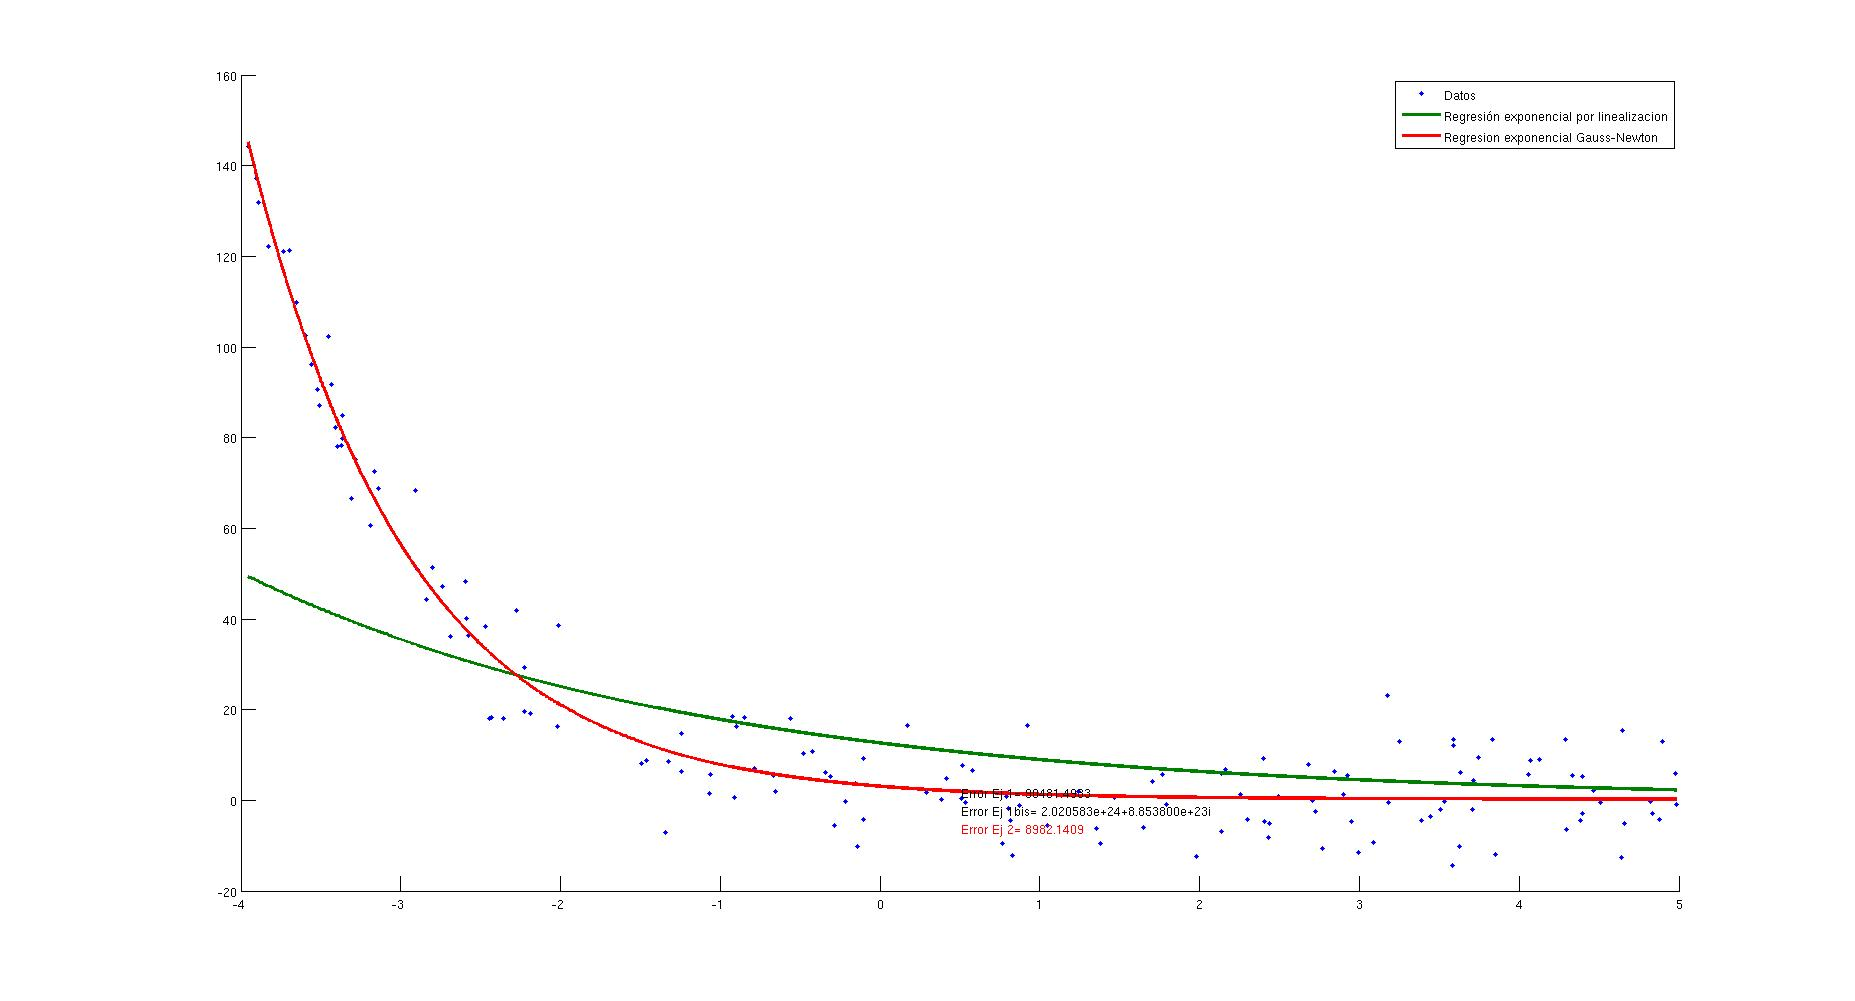
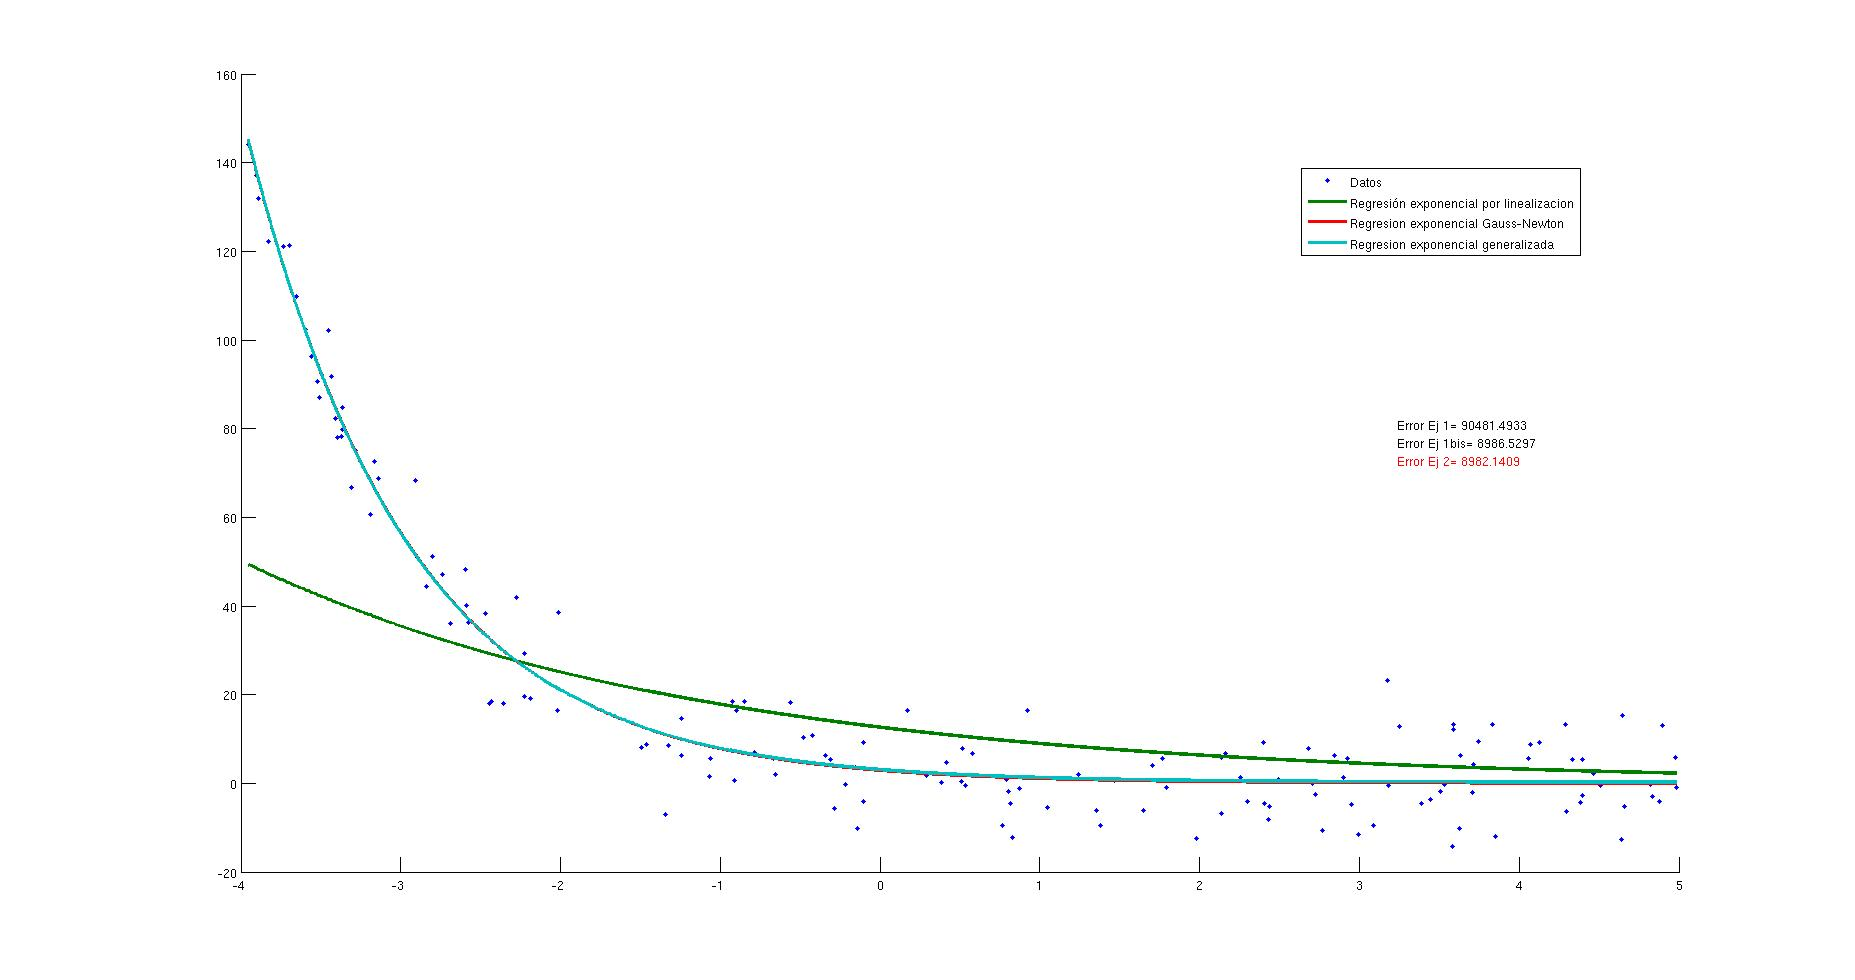
Se crea ej 1bis lindo y se pone en otro archivo el feo

diff --git a/main.m b/main.m
@@ -2,8 +2,8 @@
 clear all, close all
 
 %Ingreso y procesamiento inicial de datos
-load('datosHospital.mat')
-datosInp = M; %Ingresar datos de entrada. Primer columna variable independiente.
+load('datosTP1-2017.mat')
+datosInp = datos1; %Ingresar datos de entrada. Primer columna variable independiente.
 X = datosInp(:,1);
 Y = datosInp(:,2);
 
@@ -46,12 +46,12 @@ k = exp(logSol(2))*signo;
 er = sum((Y - k*a.^X).^2); %Miro la suma de los cuadrados de las desviaciones.
 
 
-%% %% Ejercicio 1bis: Utilizando Gauss-Newton para f(x) = k*a^x 
+%% %% Ejercicio 1bis: Utilizando Gauss-Newton para f(x) = k*e^bx 
 %% Esta es la funcion que mide el error
-d = @(tita) Y-tita(2).*tita(1).^X;
+d = @(tita) Y-tita(2).*exp(tita(1).*X);
 
 %% Gauss - Newton
-tita0_ej1b = [a k]; %Comienzo con los valores iniciales arrojados por la estimacion anterior
+tita0_ej1b = [log(a) k]; %Comienzo con los valores iniciales arrojados por la estimacion anterior
 tita_ej1b = tita0_ej1b;
 iterador = 0;
 err1 = sum(d(tita_ej1b).^2); %Yo quiero minimizar la suma de los cuadrados de las desviaciones
@@ -60,7 +60,7 @@ err = err1+1; %artilugio para entrar al ciclo
 while iterador<1000 && norm(err-err1)>0.001 %Notar que el ciclo termina porque hay una cantidad maxima de iteraciones
     % Gauss-Newton propiamente dicho
     err = err1;
-    J = [-tita_ej1b(2)*log(tita_ej1b(1))*tita_ej1b(1).^X, -tita_ej1b(1).^X]; %tita = [a,k]
+    J = [-tita_ej1b(2).*X.*exp(tita_ej1b(1).*X), -exp(tita_ej1b(1).*X)]; %tita = [a,k]
     % Matriz jacobiana cuya expresion resulta del calculo analitico.
     [q r] = qr(J);
     qy = q'*(-d(tita_ej1b));
@@ -69,6 +69,7 @@ while iterador<1000 && norm(err-err1)>0.001 %Notar que el ciclo termina porque h
     iterador = iterador + 1;
     err1 = sum(d(tita_ej1b).^2);
 end
+
 
 %% %% Ejercicio 2
 d = @(tita) Y-tita(2).*exp(tita(1).*X)-tita(3);
@@ -104,7 +105,8 @@ x1 = min(X):0.002:max(X);
 y1 = k.*a.^x1; %Estimacion ejercicio 1
 plot(x1,y1,'Linewidth',3)
 %y1bis = tita_ej1b(2).*tita_ej1b(1).^x1; %Estimacion ejercicio 1 bis
-%plot(x1,y1bis,'Linewidth',3)
+y1bis = tita_ej1b(2).*exp(tita_ej1b(1).*x1);
+plot(x1,y1bis,'Linewidth',3)
 y2 = tita_ej2(2).*exp(tita_ej2(1).*x1)+tita_ej2(3); %Estimacion ejercicio 2
 plot(x1,y2,'Linewidth',3)
 legend('Datos', 'Regresión exponencial por linealizacion', 'Regresion exponencial Gauss-Newton','Regresion exponencial generalizada')

diff --git a/ej1bisfeo.m b/ej1bisfeo.m
@@ -1,0 +1,23 @@
+%% %% Ejercicio 1bis: Utilizando Gauss-Newton para f(x) = k*a^x 
+%% Esta es la funcion que mide el error
+d = @(tita) Y-tita(2).*tita(1).^X;
+
+%% Gauss - Newton
+tita0_ej1b = [a k]; %Comienzo con los valores iniciales arrojados por la estimacion anterior
+tita_ej1b = tita0_ej1b;
+iterador = 0;
+err1 = sum(d(tita_ej1b).^2); %Yo quiero minimizar la suma de los cuadrados de las desviaciones
+err = err1+1; %artilugio para entrar al ciclo
+
+while iterador<1000 && norm(err-err1)>0.001 %Notar que el ciclo termina porque hay una cantidad maxima de iteraciones
+    % Gauss-Newton propiamente dicho
+    err = err1;
+    J = [-tita_ej1b(2)*log(tita_ej1b(1))*tita_ej1b(1).^X, -tita_ej1b(1).^X]; %tita = [a,k]
+    % Matriz jacobiana cuya expresion resulta del calculo analitico.
+    [q r] = qr(J);
+    qy = q'*(-d(tita_ej1b));
+    h = (r\qy)';
+    tita_ej1b = tita_ej1b + h;
+    iterador = iterador + 1;
+    err1 = sum(d(tita_ej1b).^2);
+end
